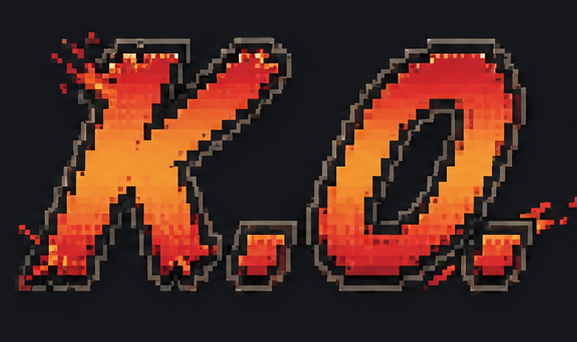
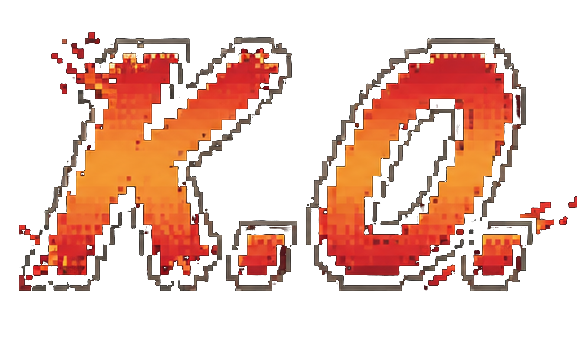
fix(assets): remove dark background from ko.png and timeout.png stamps

diff --git a/scripts/transparentizeStamps.js b/scripts/transparentizeStamps.js
@@ -1,0 +1,62 @@
+const { createCanvas, loadImage } = require("canvas");
+const fs = require("fs");
+const path = require("path");
+
+async function transparentizeImage(filename) {
+  const filePath = path.join(__dirname, "../assets/backgrounds", filename);
+  if (!fs.existsSync(filePath)) {
+    console.error("File not found:", filePath);
+    return;
+  }
+
+  const img = await loadImage(filePath);
+  const canvas = createCanvas(img.width, img.height);
+  const ctx = canvas.getContext("2d");
+
+  ctx.drawImage(img, 0, 0);
+  const imgData = ctx.getImageData(0, 0, img.width, img.height);
+  const data = imgData.data;
+
+  // Let's sample the background color from the 4 corners
+  // Corner pixels: (0,0), (width-1, 0), (0, height-1), (width-1, height-1)
+  const bgR = (data[0] + data[(img.width - 1) * 4] + data[(img.height - 1) * img.width * 4]) / 3;
+  const bgG = (data[1] + data[(img.width - 1) * 4 + 1] + data[(img.height - 1) * img.width * 4 + 1]) / 3;
+  const bgB = (data[2] + data[(img.width - 1) * 4 + 2] + data[(img.height - 1) * img.width * 4 + 2]) / 3;
+
+  console.log(`Analyzing ${filename}: Detected background color ~ rgb(${Math.round(bgR)}, ${Math.round(bgG)}, ${Math.round(bgB)})`);
+
+  // Flood fill / color distance thresholding to remove solid dark background
+  for (let i = 0; i < data.length; i += 4) {
+    const r = data[i];
+    const g = data[i + 1];
+    const b = data[i + 2];
+
+    const dist = Math.sqrt(
+      Math.pow(r - bgR, 2) +
+      Math.pow(g - bgG, 2) +
+      Math.pow(b - bgB, 2)
+    );
+
+    // If close to background color or very dark grey/black
+    if (dist < 32 || (r < 35 && g < 38 && b < 45 && Math.abs(r - g) < 10 && Math.abs(g - b) < 10)) {
+      data[i + 3] = 0; // Transparent
+    } else if (dist < 48) {
+      // Smooth edge antialiasing
+      const alpha = (dist - 32) / 16;
+      data[i + 3] = Math.floor(data[i + 3] * alpha);
+    }
+  }
+
+  ctx.putImageData(imgData, 0, 0);
+
+  const buffer = canvas.toBuffer("image/png");
+  fs.writeFileSync(filePath, buffer);
+  console.log(`✅ Saved transparent background image: assets/backgrounds/${filename}`);
+}
+
+async function run() {
+  await transparentizeImage("ko.png");
+  await transparentizeImage("timeout.png");
+}
+
+run().catch(console.error);
